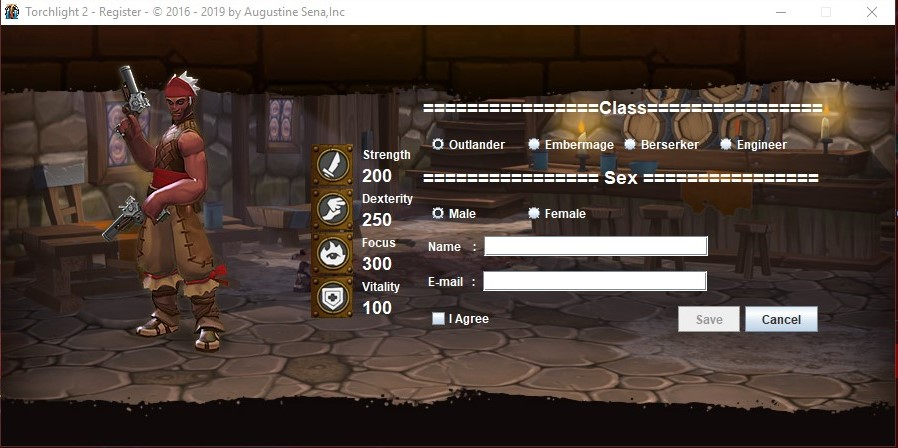
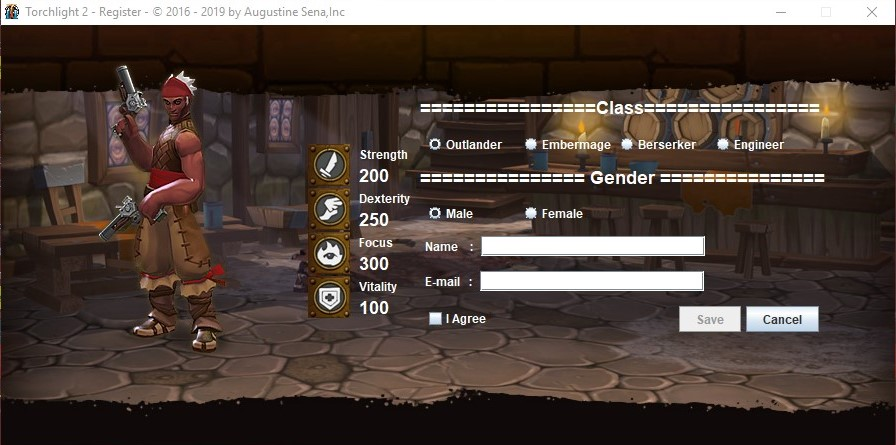
Finishing

diff --git a/src/main/RegistrationForm.java b/src/main/RegistrationForm.java
@@ -243,7 +243,7 @@ public class RegistrationForm extends JFrame {
                         String  string = "Congratulations Your Character Successfully Created !\n"+
                                 "Name========"+": "+getSelectedChar_Name()+"\n"+
                                 "Class========"+": "+getSelectedChar_Class()+"\n"+
-                                "Sex========="+": "+getSelectedChar_Sex()+"\n"+
+                                "Gender======"+": "+getSelectedChar_Sex()+"\n"+
                                 "Strength====="+": "+getSelectedChar_Strength()+"\n"+
                                 "Dexternity===="+": "+getSelectedChar_Dexternity()+"\n"+
                                 "Focus======="+": "+getSelectedChar_Focus()+"\n"+
@@ -348,7 +348,7 @@ public class RegistrationForm extends JFrame {
         jPCharSex.setBackground(colorTransparent());
         bGcharacterSex = new ButtonGroup(/*NB_ROW*/);
 
-        JLabel jLCharSex=new JLabel("================ Sex ================"/*,SwingConstants.CENTER*/);
+        JLabel jLCharSex=new JLabel("=============== Gender ==============="/*,SwingConstants.CENTER*/);
         jLCharSex.setForeground(Color.WHITE);
         jLCharSex.setFont(new Font("Arial", Font.BOLD, 18));
         jLCharSex.setOpaque(false);
